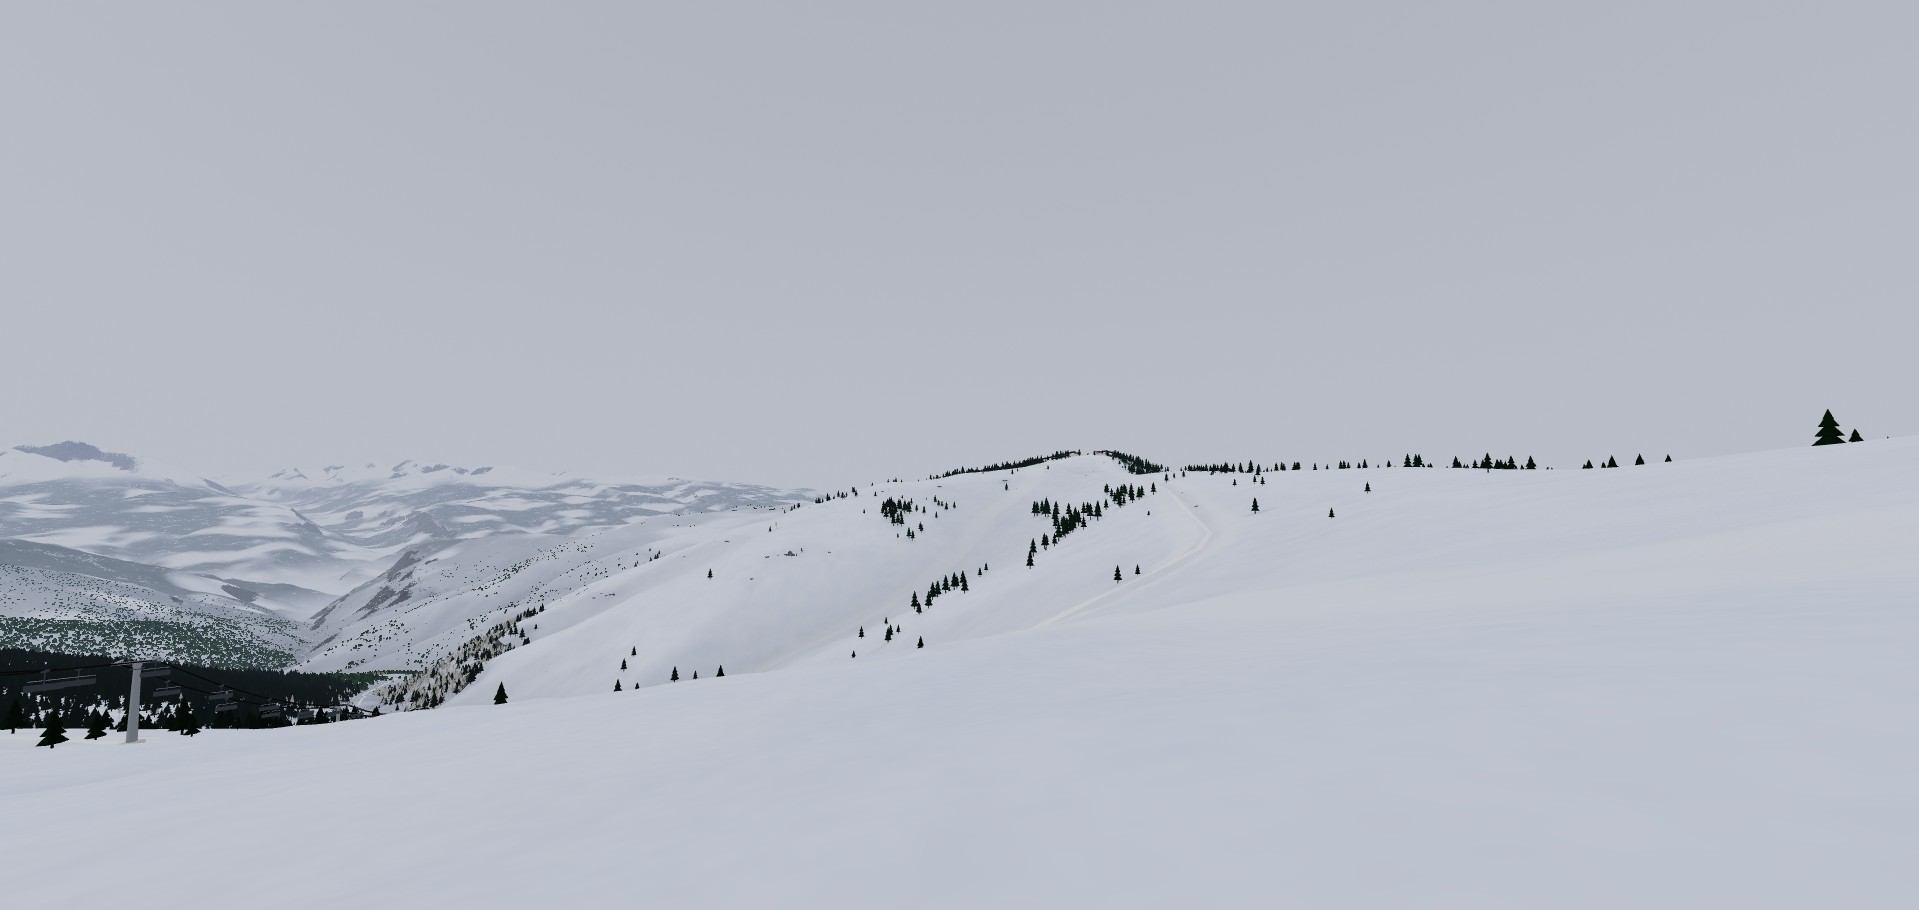
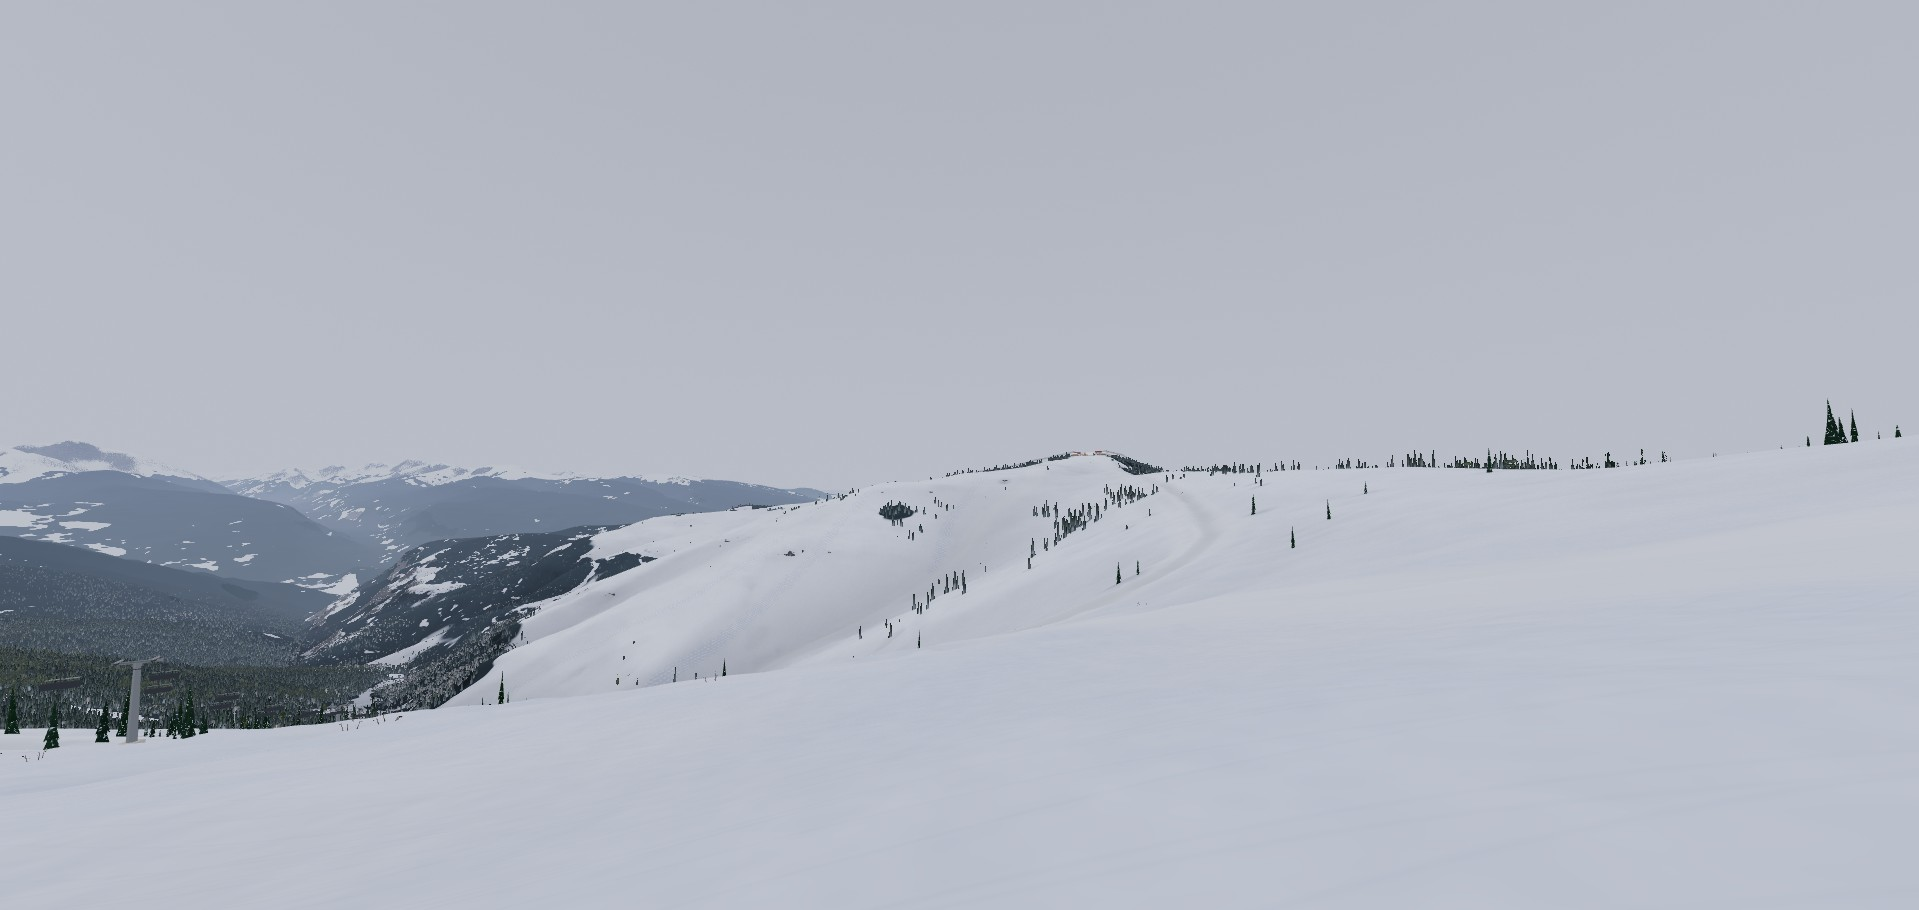
BUG-023: re-shoot Campbell's, Yonder, Poppyfields, Hornsilver and Born Free on main plus the crown height fix; notes per spot

diff --git a/docs/compare/vail/back-bowls-campbells/notes.md b/docs/compare/vail/back-bowls-campbells/notes.md
@@ -27,3 +27,6 @@ Real: Street View, Jan 2019 (link in spot.json; not stored here). Game: `game-ea
 `eye-east.jpg` and `eye-northwest.jpg`: 1.7 m above the converted Street View position (-620, 94), headings corrected to grid north, Street View pitch and FOV. These replace the hand-framed shots above for future comparisons; re-shoot with `cd game && node tools/shoot_spots.mjs vail back-bowls-campbells --gpu`.
 - **North-west:** at the photo's 15 degrees up, the game slope rises gently to a crest well away from the camera, with about 15 small trees on it. Confirms the two findings above (slope too gentle at this point, stand edge far too thin). -> BUG-023
 - **East:** a large solid black pyramid right of centre is a krummholz instance 12 m from the camera (one dark 6-sided cone, 4.5 m tall). Up close it reads as a black tent, not a shrub. -> FEAT-070
+
+## Re-shot for BUG-023 (2026-11-11)
+Eye shots re-taken on a pack built from main plus BUG-023 (crown heights from the tallest lidar return, not the blurred CHM). North-west: the crest now carries a continuous band of tall spruce and fir (since BUG-027 / BUG-028 / FEAT-074), which is what the photo shows. East: lone trees on the bowl faces, close to the photo. Within 200 m the lidar finds about one crown per tree shadow in the 2023 NAIP; LANDFIRE calls 92 % of this disc open, so only those crowns stand there, no generated stems.

diff --git a/docs/compare/vail/born-free/notes.md b/docs/compare/vail/born-free/notes.md
@@ -10,3 +10,6 @@ Real: Google Street View trekker, Mar 2012 (Google's own imagery, so position an
 1. **The forest beside the run is missing.** Real: Born Free here is a narrow corridor through a closed lodgepole pine stand, with the tree wall about 10 to 15 m from the camera on both sides (north, south-west, north-west). The pack has **0 trees within 30 m and about 12 per hectare within 100 m**, so the game shows open snow with a few lone cones. Closed lodgepole stands run to hundreds of trees per hectare. This is mature Front Side forest, not a glade or the treeline. -> BUG-023
 2. **Tree shape:** lodgepole pine is tall, with straight bare trunks and a small crown near the top, so the stand reads as a wall of trunks with light between them. The game draws every conifer as a spruce-like cone from the ground up. In 2012 many trees were red-brown or grey beetle-kill. -> FEAT-070
 3. **Snow:** spring snow, smooth and slightly grey-green in the photo's colour; the game has fresh corduroy. Season, not a bug.
+
+## Re-shot for BUG-023 (2026-11-11)
+Eye shots re-taken on a pack built from main plus BUG-023 (crown heights from the tallest lidar return, not the blurred CHM). Closed stands beside the run (FEAT-074); crowns a little taller (median 23 m within 300 m, was 21).

diff --git a/docs/compare/vail/blue-sky-hornsilver/notes.md b/docs/compare/vail/blue-sky-hornsilver/notes.md
@@ -13,3 +13,6 @@ Real: Street View, Feb 2014 (links in spot.json; not stored here). Game: `game-e
 `eye-east.jpg` and `eye-south.jpg`: 1.7 m above the converted Street View position (2866, -2968), headings corrected to grid north, Street View pitch and FOV. Re-shoot with `cd game && node tools/shoot_spots.mjs vail blue-sky-hornsilver --gpu`.
 - **Same finding, clearer:** looking east the game is an open snowfield rising to a line of small cones and the lift; the real spot is a glade with forest close on all sides. -> BUG-023
 - **Black pyramids up close:** the large solid black cones at the right edge (east) and the left (south) are krummholz instances (4.5 m tall; the nearest is 16 m from the camera), each a single flat-shaded cone. -> FEAT-070
+
+## Re-shot for BUG-023 (2026-11-11)
+Eye shots re-taken on a pack built from main plus BUG-023 (crown heights from the tallest lidar return, not the blurred CHM). East and south: a glade with forest close round it, as in the photo. About 420 trees and stems per hectare within 300 m.

diff --git a/docs/compare/vail/back-bowls-yonder/notes.md b/docs/compare/vail/back-bowls-yonder/notes.md
@@ -17,3 +17,6 @@ The pair also confirmed the FOV convention: the Maps `y` value is the vertical F
 3. **Lone pines:** the real slopes have several broad, round-crowned lone pines (west and south-lift views, also north-east). The game only has narrow cones. -> FEAT-070
 4. **Snow surface:** real is tracked-out and chalky with ski tracks and sharp small shadows; the game foreground is smooth. -> FEAT-047, BUG-021 (known)
 5. **Sky:** overcast in the photo. Fixed by FEAT-078: the spot is shot with `weather: overcast`.
+
+## Re-shot for BUG-023 (2026-11-11)
+Eye shots re-taken on a pack built from main plus BUG-023 (crown heights from the tallest lidar return, not the blurred CHM). North-east skyline: about 35 trees, the photo about 30; heights now near the photo's (lone trees here median 16 m, were 12). South-west: the valley forest reads dark and continuous. Still narrower than the real open-grown trees -> BUG-083 (#507).

diff --git a/docs/compare/vail/china-bowl-poppyfields/notes.md b/docs/compare/vail/china-bowl-poppyfields/notes.md
@@ -13,3 +13,6 @@ Real: Street View, Mar 2014, contributor Josh Jett, listed as "Vail Ski Resort" 
 2. **Trees on the saddle and ridge (north, west):** the real saddle has a small group of lone spruce, and the ridge has several clumps; the game has a few small cones. -> BUG-023
 3. **Forested skyline (east) and valley forest (south):** real is a dense dark band; the game's is thinner, and the far valley is pale. -> BUG-023
 4. **Snow:** spring snow, tracked and wind-textured; the game is fresh corduroy. Season.
+
+## Re-shot for BUG-023 (2026-11-11)
+Eye shots re-taken on a pack built from main plus BUG-023 (crown heights from the tallest lidar return, not the blurred CHM). North: the saddle's lone spruce are there, about 12 against the photo's 15, and taller (median 13 m within 300 m, was 9). Still narrower than the real ones -> BUG-083 (#507).
